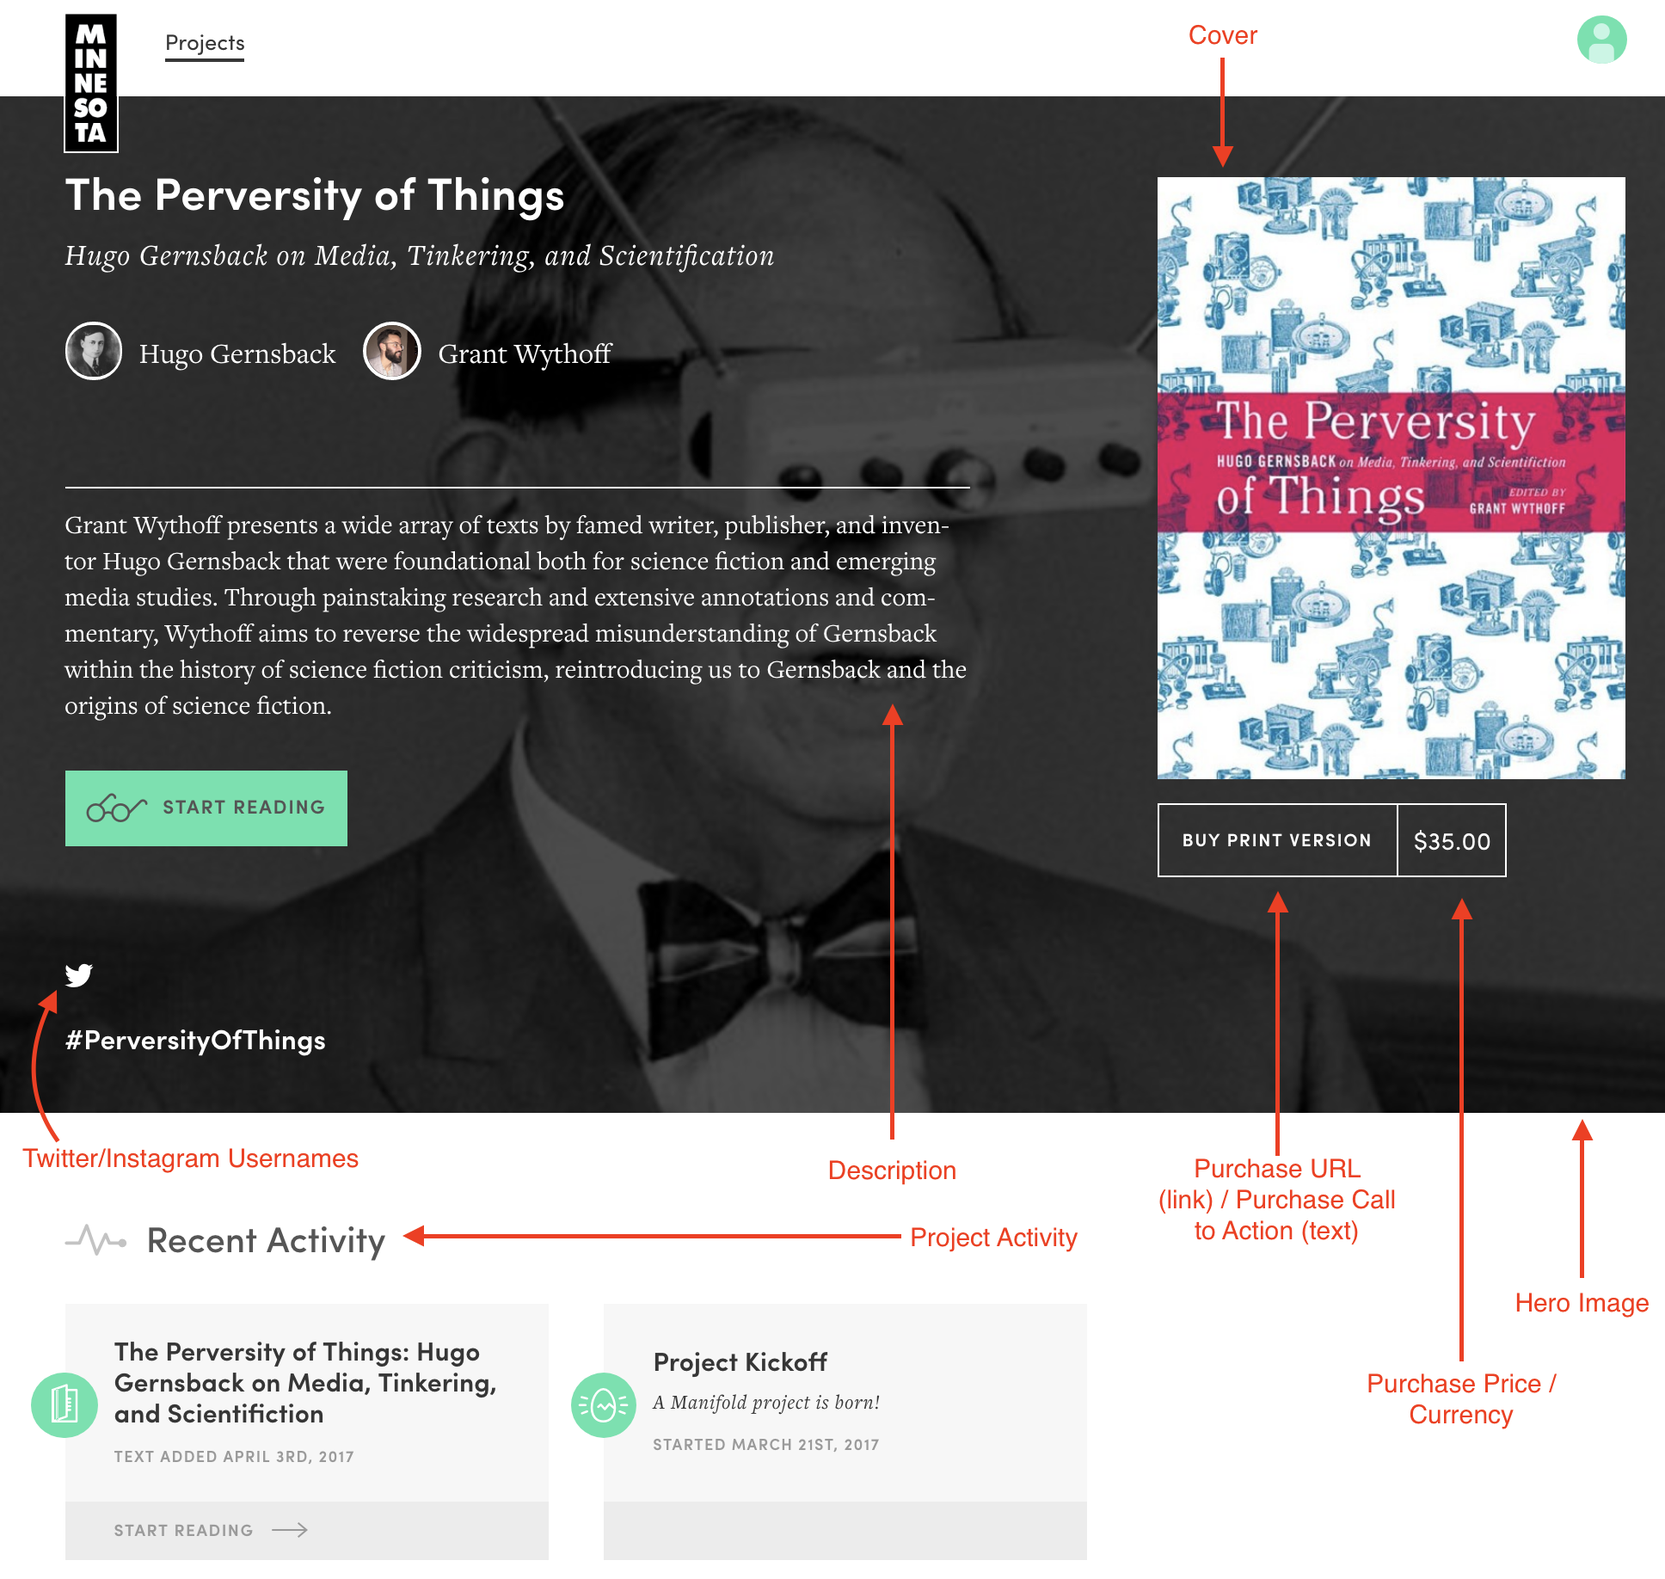
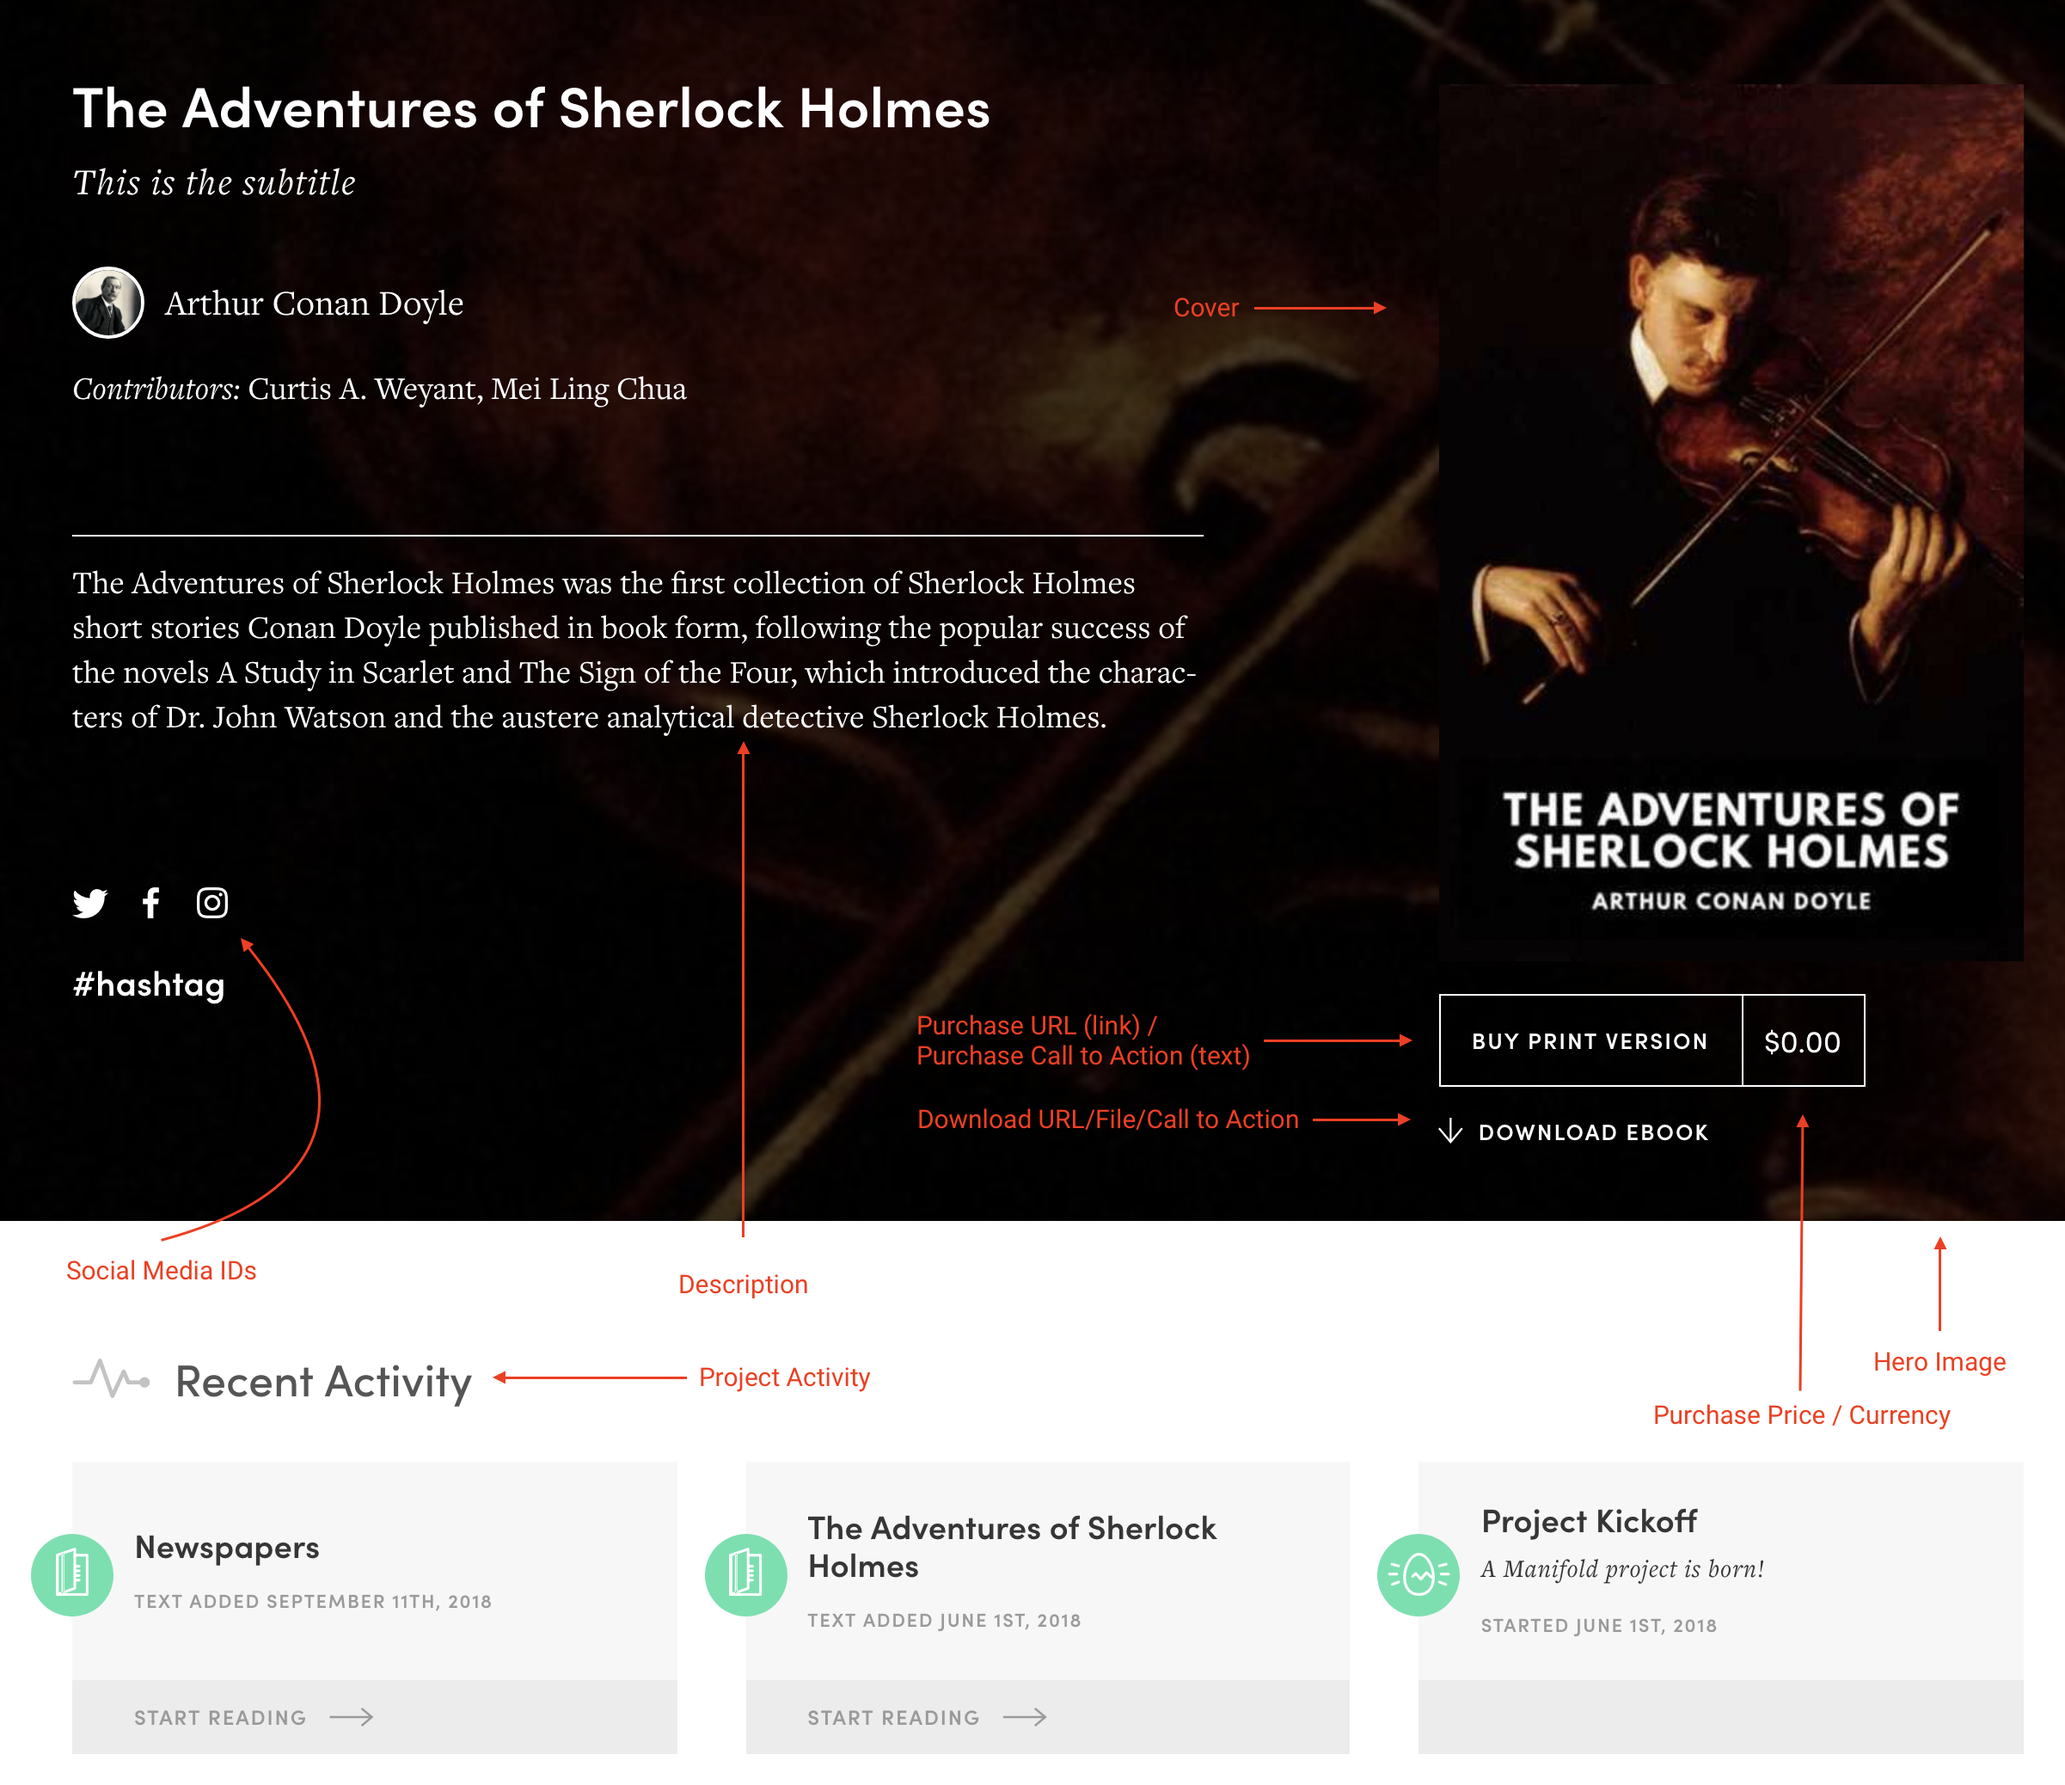
Add download options

diff --git a/_docs/projects/customizing/appearance.md b/_docs/projects/customizing/appearance.md
@@ -10,13 +10,23 @@ The Appearance section of the project page controls the bulk of the display elem
 
 ![Landing Appearance](/docs/assets/projects/landing-appearance.png)
 
+## Appearance
+
+### Hide Project Activity
+
+This slider provides an option to remove the `Recent Activity` blade from the project landing page in the front end.
+
+![Activity Feed](/docs/assets/projects/activity-feed.png)
+
+This can be used by those publishers whose projects don't warrant an `Recent Activity` section or who don't want to curate what appears in the section. For more about manually adjusting `Recent Activity` blade, see the [Activity section](activity.html).
+
 <a name="description"></a>
-## Description
+### Description
 
 This field holds a brief description of the project as a whole. Recommended length would range from three to five sentences. Text entered here can be formatted with [basic Markdown syntax](https://help.github.com/articles/basic-writing-and-formatting-syntax/).
 
 <a name="hero"></a>
-## Hero Image
+### Hero Image
 
 The hero image displays as a banner across the top of the project landing page and sits behind all the other elements described in this section.
 
@@ -30,7 +40,7 @@ When a project is shared socially the hero image is included as part of that tra
 <strong>Warning</strong>. Be sure you have the necessary permissions to upload your hero image to the system.
 </div>
 
-## Cover
+### Cover
 
 The cover is intended to be used for projects that are official versions or record—that is, they are not in a draft state but considered formally published. When set, the cover image will appear over the right side of the hero image on the project landing page once the text that serves as the version of record is moved into the [`Published` category](/docs/projects/customizing/texts.html#grouping-texts).
 
@@ -38,7 +48,9 @@ The system will automatically resize your image to fit the available space, but 
 
 Acceptable formats for upload are GIF, JPG, JPEG, PNG, and SVG.
 
-## Purchase URL
+## Purchase Options
+
+### Purchase URL
 
 If your project has a print edition available for purchase, you can direct readers to the URL where they can purchase the text. The URL entered here will serve as the target to the text entered in `Purchase Call to Action` field. If this field is left blank the value in the `Purchase Call to Action` will not appear.
 
@@ -48,24 +60,45 @@ Entering a valid URL in this field will also automatically cause the value enter
 
 It is expected that before entering a purchase URL a text has been moved into the Published category, as described in the [Texts section](/docs/projects/customizing/texts.html#grouping-texts).
 
-## Purchase Call to Action
+### Purchase Call to Action
 
 This field works in conjunction with the `Purchase URL`. Text entered here serves as the description to the target link entered in the `Purchase URL` field. By default the link will read `Buy Print Version`.
 
-## Purchase Price
+### Purchase Price
 
 This field words in conjunction with the `Purchase URL` and will only appear if the `Purchase URL` contains a valid URL. The numerical value here indicates the cost of the print edition being directed to by the `Purchase URL`. As with the `Call to Action`, the value here can be clicked and will direct readers to the target entered in the `Purchase URL` field.
 
 The default value for this field is `0.00`.
 
-## Currency
+### Currency
 
 This is a metadata field that allows you to describe the currency with which the purchase price is associated (e.g., USD for US Dollars or AUD for Australian Dollars). A full list of ISO 4217 currency codes can be [found here](http://www.xe.com/iso4217.php).
 
-## Hide Project Activity
+## Download Options
 
-This slider provides an option to remove the `Recent Activity` blade from the project landing page in the front end.
+With these download options, publishers have the ability to provide readers with a copy of the project text and/or materials that they have curated for that purpose. For example, if a publisher wants to provide an EPUB for an open-access book, they can include that in the fields below so readers can use it on their personal devices. Alternatively, a publisher could create a zip archive that includes all (or some) of the project's texts and resources in various formats (e.g., PDF, Word, mp4, etc.)
 
-![Activity Feed](/docs/assets/projects/activity-feed.png)
+When content is supplied in either the `Download URL` or the `Download File` fields, a button to download the associated file will appear on the project page below the cover.
 
-This can be used by those publishers whose projects don't warrant an `Recent Activity` section or who don't want to curate what appears in the section. For more about manually adjusting `Recent Activity` blade, see the [Activity section](activity.html).
+<div style="background: #d4f2ff; margin: 20px 0; padding: 15px;">
+<strong>Note</strong>. If both a URL and a downloadable file are supplied, the file will take precedence over the URL.
+</div>
+
+### Download URL
+
+If the source file you want to allow readers to download is remotely hosted, enter the direct URL here.
+
+### Download Call to Action
+
+By default the download button will read “Download eBook.” To adjust that enter your preferred button text here.
+
+### Download File
+
+Download files can be supplied in the following formats:
+
+- EPUB
+- HTML
+- MD
+- DOCX
+- TEX or LATEX
+- ZIP

diff --git a/_docs/reading/index.md b/_docs/reading/index.md
@@ -9,4 +9,13 @@ menus:
 
 Manifold books were made to be read and to fulfill specific functions for academic readers. This section of the documentation explains the [reading interface](interface.html) options and available activities like [annotation](annotating.html), [sharing passages](sharing.html) through social media, and creating [citations](sharing.html#cite) to properly reference Manifold materials in your own work. The placing of [resources](placing.html) are and ways readers can organize their Manifold [project libraries](library.html) are also considered here.
 
-Manifold works in your internet browser or on your mobile device (tablet or phone). To access the full toolbox, you must sign in from the homepage. You'll notice a user icon in the top right corner. Once you log in, when you click on your selected image, you will have the option to update your profile or log out. When you select "Edit Profile," you will be able to change your nickname, your chosen image (which you may upload), and your password.
+<a name="login"></a>
+## Logging In
+
+Manifold works in your internet browser or on your mobile device (tablet or phone). To access the full toolbox, you must sign in from the homepage. You'll notice a user icon in the top right corner.
+
+![Login](/docs/assets/reading/login.png)
+
+Once you log in, when you click on your selected image, you will have the option to update your profile or log out. When you select "Edit Profile," you will be able to change your profile image, name, and your password. From this screen you can also modify your [notification settings](notifications.html).
+
+![Edit Profile](/docs/assets/reading/profile.png)
